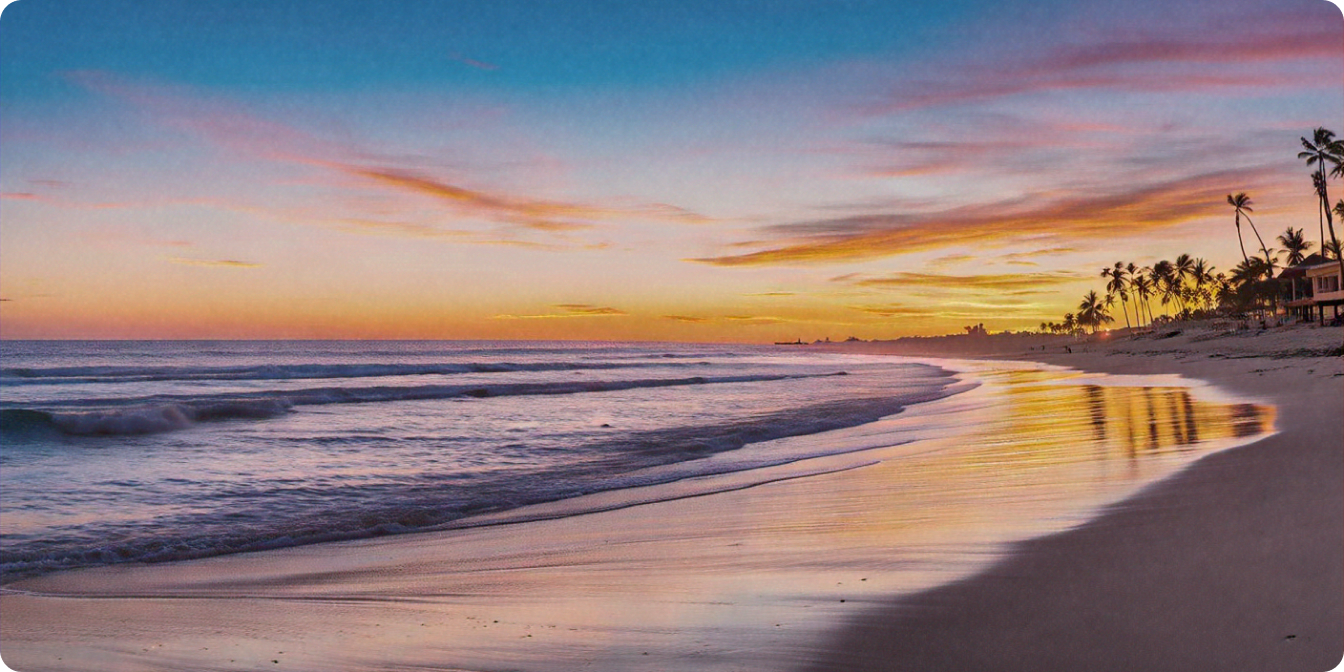
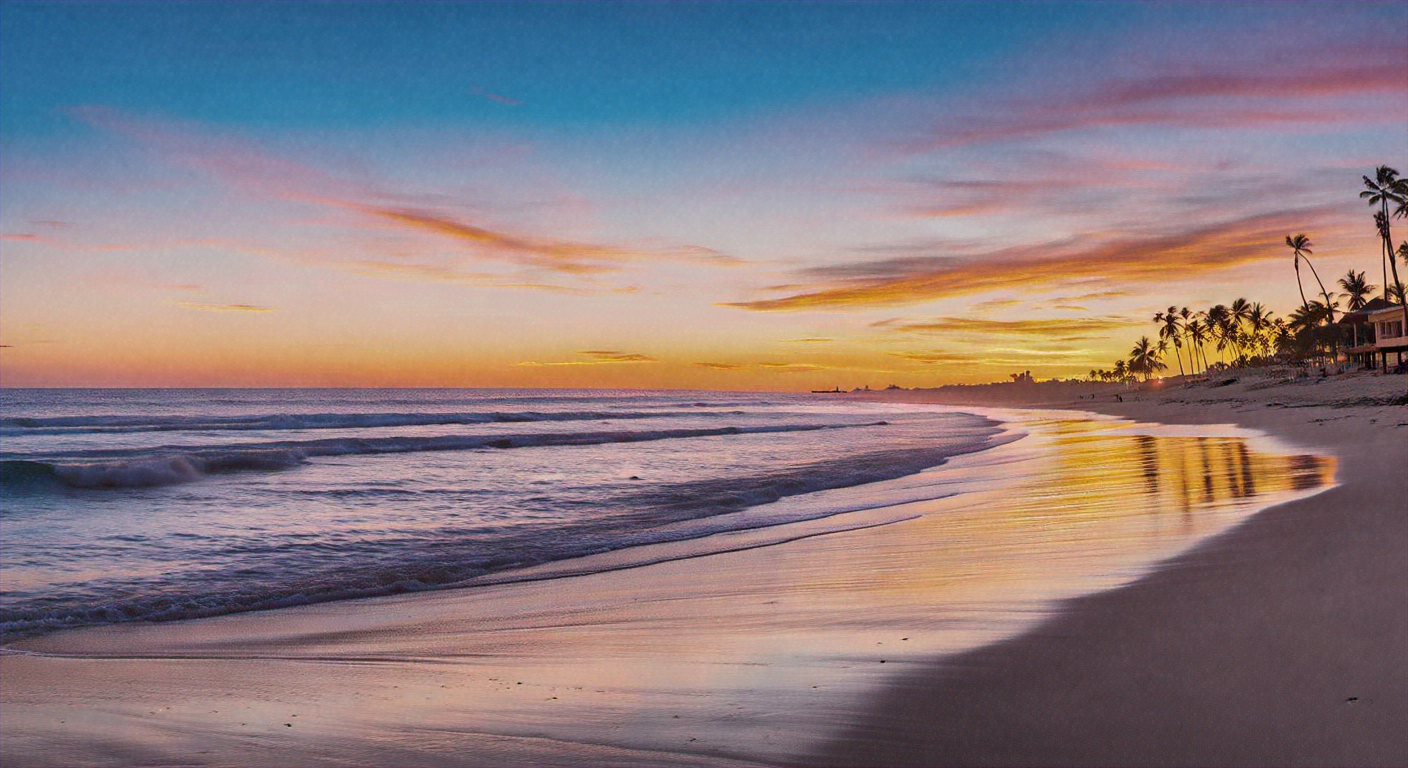
Updated

diff --git a/index.html b/index.html
@@ -6,6 +6,8 @@
     <meta name="viewport" content="width=device-width, initial-scale=1.0">
     <title>Document</title>
     <link rel="stylesheet" href="index.css">
+    <link href="https://cdn.jsdelivr.net/npm/bootstrap@5.3.3/dist/css/bootstrap.min.css" rel="stylesheet"
+        integrity="sha384-QWTKZyjpPEjISv5WaRU9OFeRpok6YctnYmDr5pNlyT2bRjXh0JMhjY6hW+ALEwIH" crossorigin="anonymous">
 </head>
 
 <body>
@@ -23,8 +25,43 @@
     <section class="hero">
         <div class="">Explore My</div>
         <div class="">Adventures</div>
-        <img src="./heroimage.png" alt="homeimage">
+        <!-- <img src="./heroimage.png" alt="homeimage"> -->
+        <div id="carouselExampleIndicators" class="carousel slide">
+            <div class="carousel-indicators">
+                <button type="button" data-bs-target="#carouselExampleIndicators" data-bs-slide-to="0" class="active"
+                    aria-current="true" aria-label="Slide 1"></button>
+                <button type="button" data-bs-target="#carouselExampleIndicators" data-bs-slide-to="1"
+                    aria-label="Slide 2"></button>
+                <button type="button" data-bs-target="#carouselExampleIndicators" data-bs-slide-to="2"
+                    aria-label="Slide 3"></button>
+            </div>
+            <div class="carousel-inner">
+                <div class="carousel-item active">
+                    <img src="./heroimage.png" class="d-block w-100" alt="...">
+                </div>
+                <div class="carousel-item">
+                    <img src="./heroimage.png" class="d-block w-100" alt="...">
+                </div>
+                <div class="carousel-item">
+                    <img src="./heroimage.png" class="d-block w-100" alt="...">
+                </div>
+            </div>
+            <button class="carousel-control-prev" type="button" data-bs-target="#carouselExampleIndicators"
+                data-bs-slide="prev">
+                <span class="carousel-control-prev-icon" aria-hidden="true"></span>
+                <span class="visually-hidden">Previous</span>
+            </button>
+            <button class="carousel-control-next" type="button" data-bs-target="#carouselExampleIndicators"
+                data-bs-slide="next">
+                <span class="carousel-control-next-icon" aria-hidden="true"></span>
+                <span class="visually-hidden">Next</span>
+            </button>
+        </div>
+
     </section>
+
+
+
 
     <section>
         <div class="projects">
@@ -75,9 +112,12 @@
                 <div class="text c1">Rio de Janerio</div>
                 <div class="text c2">Videography</div>
             </div>
-
         </div>
     </section>
+
+
+
+
 
     <section class="contactUs" id="contact">
         <div class="contactHead">Get in Touch</div>
@@ -102,6 +142,10 @@
         </div>
     </footer>
 
+    <script src="https://cdn.jsdelivr.net/npm/bootstrap@5.3.3/dist/js/bootstrap.bundle.min.js"
+        integrity="sha384-YvpcrYf0tY3lHB60NNkmXc5s9fDVZLESaAA55NDzOxhy9GkcIdslK1eN7N6jIeHz"
+        crossorigin="anonymous"></script>
+</body>
 </body>
 
 </html>

diff --git a/index.css b/index.css
@@ -22,6 +22,7 @@ html,body{
     left: 50%;
     transform: translateX(-50%);
     border-bottom:0.065vw solid #17340929  ;
+    z-index: 1;
 
 }
 
@@ -69,6 +70,13 @@ html,body{
     color: #1D221B;
 }
 
+.navSection div a:hover{
+    color: #204F0A;
+    text-decoration: underline;
+
+
+}
+
 
 .hero{
     width: 88.2vw;
@@ -86,12 +94,23 @@ html,body{
     line-height: 7.2vw;
 }
 
-.hero img{
+.hero .carousel {
     width: 100%;
     height: auto;
     margin: 5.9vw auto 8.24vw auto;
-    
 }
+
+#carouselExampleIndicators {
+    border-radius: 1.43vw;
+    overflow: hidden;
+}
+
+#carouselExampleIndicators .carousel-inner img {
+    border-radius: 1.43vw;
+}
+
+
+
 
 /* .projects {
     display: grid;
@@ -259,10 +278,16 @@ input, textarea, button {
     color: #FBFFFA;
     cursor: pointer;
     width: 5.39vw;
+    border-radius: 0.52vw;
+}
+
+.submit:hover{
+    background-color: white;
+    color: black;
 }
 
 textarea {
-    resize: none;
+    /* resize: none; */
     height: 6.5vw;
 }
 
@@ -296,5 +321,10 @@ textarea {
     line-height: 1.56vw;
     font-size: 1.3vw;
     cursor: pointer;
+    border-radius: 0.52vw;
+
 }
+
+
+
 
